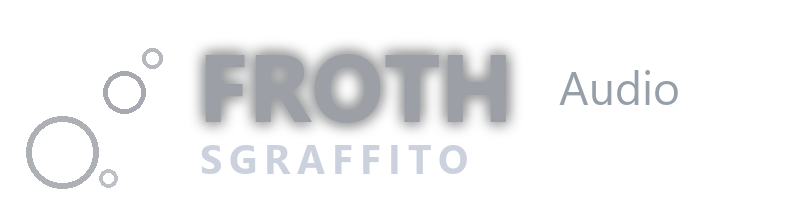
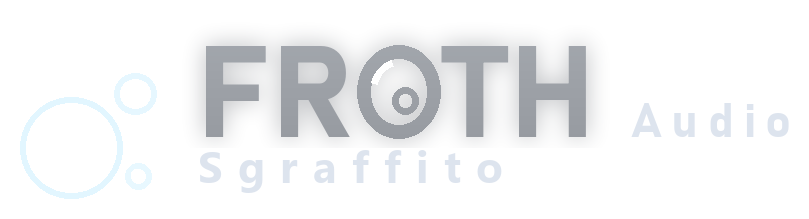
feat(Sgraffito): Update UI and documentation for Sgraffito Memory Sampler, including new button placement and branding adjustments

Changed region(s): [[0.2472, 0.1918, 0.9889, 0.8767], [0.0, 0.3288, 0.2163, 0.9041], [0.1545, 0.2192, 0.2163, 0.3288]]

diff --git a/plugins/Sgraffito/Source/PluginEditor.cpp b/plugins/Sgraffito/Source/PluginEditor.cpp
@@ -6,6 +6,9 @@
 
 namespace
 {
+    // LOAD SOUND's width inside the waveform preview (owner request 2026-11-16).
+    constexpr int loadButtonWidth = 130;
+
     constexpr int editorWidth = 880;
     constexpr int editorHeight = 700;
     constexpr int headerHeight = 44;
@@ -49,9 +52,11 @@ SgraffitoEditor::SgraffitoEditor (SgraffitoProcessor& p)
     presetBar->onPresetLoaded = [this] { repaint(); };
     addAndMakeVisible (*presetBar);
     
-    // Sample loading button: next to the preset bar.
+    // Sample loading button: inside the waveform preview on the SOUND page (owner
+    // request 2026-11-16) — the sample's home is the preview, not the header. It is a
+    // child of the waveform view, so it follows the page's visibility.
     loadSampleButton.onClick = [this] { browseForSample(); };
-    addAndMakeVisible (loadSampleButton);
+    waveformView.addAndMakeVisible (loadSampleButton);
 
     addAndMakeVisible (headerMenu);
     headerMenu.onAbout = [this]
@@ -337,9 +342,8 @@ void SgraffitoEditor::setPage (int newPage)
                               static_cast<juce::Component*> (&levelSlider),
                               static_cast<juce::Component*> (&velocityCurveSlider),
                               static_cast<juce::Component*> (&attackSlider),
-                              static_cast<juce::Component*> (&releaseSlider),
-                              static_cast<juce::Component*> (&loadSampleButton) })
-        component->setVisible (soundPage);
+                              static_cast<juce::Component*> (&releaseSlider) })
+        component->setVisible (soundPage);   // loadSampleButton follows its parent, the waveformView
 
     for (auto* component : { static_cast<juce::Component*> (&tapeStopTimeSlider),
                               static_cast<juce::Component*> (&tapeStopCurveSelector),
@@ -423,13 +427,6 @@ void SgraffitoEditor::resized()
                                 .withHeight (presetBar->getPreferredHeight())
                                 .withY (headerArea.getCentreY() - presetBar->getPreferredHeight() / 2));
 
-    // Load sample button next to the preset bar. A floor of one pill height keeps it visible
-    // in the default build, where the preset-bar stub reports height 0.
-    loadSampleButton.setBounds (headerArea.removeFromRight (150)
-                                    .withHeight (juce::jmax (presetBar->getPreferredHeight(), SuiteUI::pillHeight))
-                                    .withY (headerArea.getCentreY()
-                                              - juce::jmax (presetBar->getPreferredHeight(), SuiteUI::pillHeight) / 2));
-
     pageSelector.setBounds (headerArea.removeFromRight (pageSelectorWidth)
                                 .withSizeKeepingCentre (pageSelectorWidth, pageSelectorHeight));
 
@@ -455,6 +452,14 @@ void SgraffitoEditor::layoutSoundPage (juce::Rectangle<int> area)
     // The waveform takes the space the fixed rows below leave, so the page has no dead area.
     const int fixedBelow = 2 * SuiteUI::knobRowHeight + SuiteUI::pillHeight + 4 * groupGap;
     waveformView.setBounds (area.removeFromTop (juce::jmax (100, juce::jmin (260, area.getHeight() - fixedBelow))));
+
+    // LOAD SOUND sits inside the preview, at its top-right: the sample's home is the
+    // waveform, and the missing-sample overlay below it opens the same browse flow.
+    // A pill-height button, centred in its corner strip (rule R3: never fill a row).
+    loadSampleButton.setBounds (waveformView.getBounds()
+                                    .removeFromTop (SuiteUI::pillHeight + 10)
+                                    .removeFromRight (loadButtonWidth + 10)
+                                    .withSizeKeepingCentre (loadButtonWidth, SuiteUI::pillHeight));
 
     area.removeFromTop (groupGap);
 

diff --git a/AGENTS.md b/AGENTS.md
@@ -8,9 +8,21 @@ The original brief (`coding_agent_prompt.md`) is no longer in the repository. Se
 
 ---
 
+## 0. Framework readiness summary
+
+The suite framework is ready for new plugin development:
+
+- **R1 State versioning**: Done via `modules/suite_state`. Sessions carry a `suiteStateVersion` attribute; older states load unchanged, newer states are refused.
+- **R2 Build recipe**: Done via `suite_add_plugin()` in `modules/suite_plugin/SuitePlugin.cmake` and the generator `tools/new_plugin/new_plugin.py`. New plugins are created with one CMake function call.
+- **R3 Editor UI base**: Done. MicroTimingChaos's LookAndFeel now derives from `SuiteUI::SuiteLookAndFeel`, sharing fonts, layout setup, and common widget drawing. The refresh rate is a single constant `SuiteUI::kRefreshHz = 60`. One minor decision remains: the MicroTimingChaos PREVIEW tab first-render effect (owner-decided baseline in plan 02).
+
+New plugins cost about one day of processor/editor scaffolding work, plus DSP and tests. The shared modules (`core_dsp`, `suite_modulation`, `suite_ui`) are independent and have no plugin-specific code.
+
+---
+
 ## 1. What this project is
 
-Three audio plugins written with JUCE 9.0.5 in C++17. Formats: VST3 on Windows and macOS, Audio Unit on macOS, and Standalone on both.
+Four audio plugins written with JUCE 9.0.5 in C++17. Formats: VST3 on Windows and macOS, Audio Unit on macOS, and Standalone on both.
 
 | Plugin | Folder | Kind | DSP core | Editor accent |
 |---|---|---|---|---|
@@ -64,7 +76,7 @@ modules/
     include/SuiteLookAndFeel.h    SuiteUI::Colours: the neutral palette shared by all plugins, SuiteLookAndFeel (LookAndFeel_V4), and kRefreshHz (the 60 Hz editor timer rate)
     include/SuiteWidgets.h        SpectrumDisplay, TrailPlot, CurveView, LevelMeter, SegmentedSelector, LabelledSlider
     include/SuiteBrand.h          drawBrandLockup(): draws a brand lockup image at the left of a header area
-    brand/                        Generated artwork: brand_mark.png and lockup_<plugin>.png. Made by tools/brand/build.py, do not edit by hand
+    brand/                        Generated artwork: brand_mark.png and lockup_<plugin>.png. The lockups are made by the template generator tools/brand/lockups.py (one table row per plugin); do not edit the PNGs by hand
     Source/*.cpp                  Implementations
     SuiteUI.cmake                 suite_ui_add_to_target(<target>): adds sources + include dir
     tests/SuiteUITests.cpp        SuiteUITests (9 test functions)
@@ -83,7 +95,7 @@ plugins/<Name>/
   Source/PluginEditor.{h,cpp}     Editor, 60 Hz Timer reads processor snapshots
   tests/PluginTests.cpp           Plugin tests: SpectralDrift 22, DynamicSaturation 19, MicroTimingChaos 40
 plugins/MicroTimingChaos/         Additional files:
-  MicroTimingChaosLookAndFeel.h   At the plugin root (not include/). MTC-only colours (axes, LFOs, preview text); the neutrals come from SuiteUI::Colours. Derives from SuiteUI::SuiteLookAndFeel for the shared setup. It keeps its own knob, toggle, combo box, linear slider and fonts, so the window is unchanged (plan 02 results)
+  MicroTimingChaosLookAndFeel.h   At the plugin root (not include/). MTC-only colours (axes, LFOs, preview text); the neutrals come from SuiteUI::Colours. Derives from SuiteUI::SuiteLookAndFeel for shared fonts and layout setup. It keeps its own knob, toggle, combo box, linear slider and fonts, so the window is unchanged (plan 02 results).
   Source/MicroTimingChaosLookAndFeel.cpp  Rotary knobs, BPM Sync button, combo box; textures and icons from BinaryData
   Source/LerpCurveEditor.{h,cpp}  The 5-point curve editor (Curve tab)
   Source/LerpPreview.{h,cpp}      The live drift preview (Preview tab)
@@ -451,6 +463,8 @@ Reason: a static library that links JUCE module targets bundles those module obj
 
 If you add a new consumer, use `suite_ui_add_to_target`. Do not add `SuiteUI` to `target_link_libraries`.
 
+**R3 completion**: The editor UI base is fully implemented. All four plugins share the suite look and feel through `SuiteUI::SuiteLookAndFeel`. MicroTimingChaos's own LookAndFeel derives from it, keeping only MTC-specific drawings (knobs, toggles, combo box). The shared refresh rate constant `SuiteUI::kRefreshHz = 60` is used by all editors. One minor owner-decided baseline remains for MicroTimingChaos's PREVIEW tab first-render effect (see plan 02).
+
 `suite_modulation` follows the same rule (`suite_modulation_add_to_target`, never `target_link_libraries`). Its panel uses `SuiteUI::LabelledSlider`, so a consumer calls `suite_ui_add_to_target` on the same target first. Its tests are registered in `modules/suite_modulation/CMakeLists.txt` only when `SUITE_BUILD_TESTS` is on, and the directory is added only inside the `SUITE_BUILD_PLUGINS` block.
 
 `suite_settings` follows the same pattern (`suite_settings_add_to_target`, never `target_link_libraries`). The Settings dialog uses `SuiteUI::LabelledSlider` for the preset folder browse button, so a consumer must call `suite_ui_add_to_target()` first, then `suite_settings_add_to_target()`. Its tests are registered in `modules/suite_settings/CMakeLists.txt` and only built when plugins are enabled.
@@ -497,7 +511,7 @@ If you add a new consumer, use `suite_ui_add_to_target`. Do not add `SuiteUI` to
 1. Run `python tools/new_plugin/new_plugin.py <Name> "<Product name>" <Code>`. It copies `tools/new_plugin/skeleton/` into `plugins/<Name>/`, fills in the names, and refuses if the folder exists or the plugin code is in use. It writes nothing else.
 2. Add `add_subdirectory(plugins/<Name>)` to the root `CMakeLists.txt`, after the other plugins. The script prints this line.
 3. The plugin's CMake is one `suite_add_plugin(...)` call (`modules/suite_plugin/SuitePlugin.cmake`). It sets the plugin target, its `<Name>Tests` executable, the links, the lockup and `add_test`. Its arguments are described at the top of that file. `DESCRIPTION` sets the bundle description (default: the product name). The company website and copyright are set once, in the root `CMakeLists.txt`. Add `MODULATION` for the LFOs and routing, `IS_SYNTH` / `IS_MIDI_EFFECT` / `NEEDS_MIDI_INPUT` / `NEEDS_MIDI_OUTPUT` for MIDI effects and instruments, and `LOCKUP` or `ASSETS` for embedded images and files.
-4. Add `suite_add_host_test(<Name>)` to `tests/host/CMakeLists.txt`. Add its accent colour and lockup to `tools/brand/build.py` and regenerate the artwork. Add it to the README and the CHANGELOG.
+4. Add `suite_add_host_test(<Name>)` to `tests/host/CMakeLists.txt`. Add one row to the lockup table in `tools/brand/lockups.py` (file name, product name, accent) and run it to generate the lockup. Add it to the README and the CHANGELOG.
 5. The function checks that the plugin code is four characters and unique across all plugins. A duplicate stops configuration.
 
 **Adding modulation to a plugin** (the procedure used for Spectral Drift and Dynamic Saturation)
@@ -596,12 +610,12 @@ Development of the Sgraffito memory sampler plugin is complete across all phases
 
 - **Phase 4 - Creative Features**: Lorenz chaos drift, tape stop, ghost notes, scale lock, cloud granular mode. 71 parameters total (37 original + 34 new: 2 LFOs + 6 modulation slots + 21 creative parameters).
 - **Phase 5 - Modulation Infrastructure**: SuiteModulation::Router shared with other plugins, 2 LFOs, 6 routing slots (source/target/amount/delay). All parameters automatable, savable, restorable.
-- **Editor**: 880×700 window (plan 05 budget; plan 05.1 added the MOD page and the playable keyboard), SOUND/TEXTURE/MOD pages, brand lockup in the header (`lockup_sgraffito.png`, embedded via LOCKUP; generated by `build/brand/lockup_sgraffito.py` in the style of the other lockups) and the factory preset bar (added to the component tree in every build). Knobs come from the shared `SuiteUI` tokens (40 px, plan 05.1); toggle buttons and selectors are 36 px pills. The SOUND page shows the waveform view (region overlay, Chop slice lines) and a Root Key value box that reads as a note name and number (`C3 (60)`); the TEXTURE page groups the controls into framed rows (TAPE & MEMORY, DRIFT & TIMING, GHOST, CLOUD, SWELL & SURFACE); the MOD page holds only the `ModulationPanel` (both LFOs in the slate accent). The editor has no help/status line. A `PlayableKeyboardStrip` (MIDI 24–96) sits at the very bottom of every page and plays through an SPSC note queue drained in `processBlock`. The waveform's region maths mirrors `CoreDSP::Sampler::keyRegion`/`chopRegion`.
+- **Editor**: 880×700 window (plan 05 budget; plan 05.1 added the MOD page and the playable keyboard), SOUND/TEXTURE/MOD pages, brand lockup in the header (`lockup_sgraffito.png`, embedded via LOCKUP; generated by the lockup template generator `tools/brand/lockups.py` — one table row per plugin, composited from the family template so the wordmark, "Audio" and mark are pixel-identical across the suite; the old one-off `build/brand/lockup_sgraffito.py` is superseded) and the factory preset bar (added to the component tree in every build). Knobs come from the shared `SuiteUI` tokens (40 px, plan 05.1); toggle buttons and selectors are 36 px pills. The SOUND page shows the waveform view (region overlay, Chop slice lines) and a Root Key value box that reads as a note name and number (`C3 (60)`); the TEXTURE page groups the controls into framed rows (TAPE & MEMORY, DRIFT & TIMING, GHOST, CLOUD, SWELL & SURFACE); the MOD page holds only the `ModulationPanel` (both LFOs in the slate accent). The editor has no help/status line. A `PlayableKeyboardStrip` (MIDI 24–96) sits at the very bottom of every page and plays through an SPSC note queue drained in `processBlock`. The waveform's region maths mirrors `CoreDSP::Sampler::keyRegion`/`chopRegion`.
 - **Presets**: Sgraffito ships 20 factory presets (the 15-preset minimum plus five added by plan 05.3 F1.3); the suite-wide bank is 100 factory presets (26 SD / 26 DS / 28 MTC / 20 Sgraffito) behind SUITE_PRESET_BANK flag. CI and the release workflow configure with `-DSUITE_PRESET_BANK=ON`, so published binaries carry the presets.
 - **Documentation**: AGENTS.md updated with Sgraffito plugin entry, parameter tables, and minimum 15 presets requirement.
 - **Test results**: 12 CTest entries with `SUITE_PRESET_BANK=OFF`, 16 with `=ON` (both include `SuiteSettings_Tests` since plan 08). The 4 plugin test executables run in both; the bank build adds 4 preset-test executables. Sgraffito's plugin tests cover 36 functions: parameters, state, note-on/off voice handling, region mapping, Chop slices, output, the editor paint, the preset bar in the component tree, per-page knob visibility (a knob missing from a page's visibility list floats over every page), editor renders (3 pages plus the missing-sample overlay), the shared routing, the plan 05.1 sound regressions (the four modes produce different audio; the key changes the pitch), the plan 07 sample-linked preset/session tests (7 in phase 1, 5 in phase 2, 2 in phase 4: the async latest-wins race and destruction with a load pending), and the plan 09 tests (the capped retirement queue, pending-note stealing per D1, pending Cloud lanes, pending-matches-direct, and the preset-identity session round trip).
 - **Audio playback (per-sample loop)**: `processBlock` reads and writes audio sample by sample. The envelope (`Voice::envelope`) runs per sample; a released voice deactivates when its release envelope reaches zero. Scrub and Chop advance `voice.position` by `rate` frames per output sample and end as one-shots at the region end; Swell starts at the region end and reads backwards; Cloud runs a per-lane grain machine (`cloudGrainPosition`, half-sine window, `grainSize`/`grainDensity`/`grainSpread`, wrap within the region). A mono sample (the embedded `grain_4k.wav` is mono) feeds every output channel — the per-channel read must use `ch % sampleChannels`, or a stereo output crashes on `getReadPointer`. The routing target table has 26 entries; `TimingRange` and `Chaos` (MicroTimingChaos leftovers) are not Sgraffito parameters and were removed before any release. Still not wired to the audio: `ghostOn/threshold/level/delay`, `dust/crackle/wow/flutter`, `swellTime/swellCrossfade` (Swell reverse playback runs, its own parameters do not yet), chaos drift, tape-stop slowdown, `swing` and `humanise` — a follow-up plan owns them.
-- **Sample loading (header LOAD SOUND button)**: the button sits left of the preset bar and opens a `FileChooser` kept alive as an editor member (deleting the chooser aborts the dialog, so a stack-local one never shows it). File patterns are `*.wav;*.aiff;*.aif` only — `registerBasicFormats()` reads no FLAC. The chosen file loads asynchronously (plan 07 phase 4): the read runs on a pooled thread and the install happens on the message thread, so the UI never stalls on a big file; the current sample keeps playing until then. On a new load the previous `LoadedSample` moves into `retiredSamples`, a **capped two-generation retirement queue** (plan 09 1.1), instead of being destroyed: an audio block that started before the load may still hold the old buffer pointer, and two installs inside one running block (rapid preset/sample switching) would have freed it under the old single `retiredSample` slot. Both retire sites (`finishSampleLoad`, `clearSample`) route through `retireCurrentSample()`; the queue grows only on the message thread, and the audio thread never touches it.
+- **Sample loading (LOAD SOUND button in the waveform preview)**: the button sits at the top-right *inside* the waveform view on the SOUND page (owner request 2026-11-16; it used to sit in the header left of the preset bar) and opens a `FileChooser` kept alive as an editor member (deleting the chooser aborts the dialog, so a stack-local one never shows it). It is a child of the waveform view, so it follows the page's visibility, and it stays clickable above the missing-sample overlay. File patterns are `*.wav;*.aiff;*.aif` only — `registerBasicFormats()` reads no FLAC. The chosen file loads asynchronously (plan 07 phase 4): the read runs on a pooled thread and the install happens on the message thread, so the UI never stalls on a big file; the current sample keeps playing until then. On a new load the previous `LoadedSample` moves into `retiredSamples`, a **capped two-generation retirement queue** (plan 09 1.1), instead of being destroyed: an audio block that started before the load may still hold the old buffer pointer, and two installs inside one running block (rapid preset/sample switching) would have freed it under the old single `retiredSample` slot. Both retire sites (`finishSampleLoad`, `clearSample`) route through `retireCurrentSample()`; the queue grows only on the message thread, and the audio thread never touches it.
 - **Sample-linked presets and sessions (plan 07 phases 1-4)**: the loaded sample travels as the `samplePath` property on `<PARAMETERS>` (constants `samplePathProperty`, `embeddedSampleUri`), never as an APVTS parameter. `loadSample`/`loadEmbeddedSample` keep the property in sync on `apvts.state` at change time (the lerpCurve pattern), so the bar's SAVE path and `SuiteState::write`'s `extra` callback pick it up. `applySampleFromState` implements the rule: an **empty** tree is INIT (the bar and host program 0 apply hand-made empty trees) → reset to `embedded:grain_4k.wav`; an `embedded:` URI → `loadEmbeddedSample`; an existing file → `loadSample`; a missing path → the same file name in the fallback folder (`userSampleFolder()` = `userDocuments/AudioSuite/Sgraffito/Samples`, Q5; tests override it through the public `sampleSearchFolder` member), and if that fails too, keep the current sample and set `sampleMissing` + `missingSamplePath`; no property → no-op (delta semantics). The fallback load updates the saved path, so the session remembers the resolution; there is no automatic `embedded:` substitution. The waveform view draws a "Sample missing - click to locate" overlay (accent border + text, rule R6) over the still playing sample; clicking it runs the editor's `browseForSample()` flow. `applyPresetState`'s `afterLoad` reads the **incoming tree**, because an empty INIT tree gains a version property during read. No parameter or `numControls` change, no state-version bump; a preset change to the sample marks the session dirty (intended). Factory presets may now carry an `embedded:` URI only — never a file path (Q3, revised in phase 4; the audit rule rejects file paths in the authoring data, XML and JSON). Five Sgraffito factory presets (Glass Dust, Deep Cloud, Cloud Rain, Cloud Dust, Swelling Cloud) ship the embedded cloud variant (`embedded:cloud_4k.wav`); `build_bank.py` writes the `<PARAMETERS>` attribute and the `_samplePath` JSON key, and `SgraffitoPresetTests`'s `embeddedSamples` check applies every URI in the bank and asserts it actually loads (the guard against a resource-name typo, since `loadEmbeddedSample` silently keeps the current sample on an unknown name). Plan 07 phase 3 also added the host program virtuals Sgraffito was missing (the flag build's `runProgramList` exposed the gap): `getNumPrograms`/`getCurrentProgram`/`setCurrentProgram`/`getProgramName`/`getCurrentProgramStateInformation`/`setCurrentProgramStateInformation` are now out-of-line in `PluginProcessor.cpp` under `#if SUITE_PRESET_BANK_AS_PROGRAMS`, mirroring SpectralDrift, with a guarded `#include "PresetBank.h"` and the `currentProgramIndex` member reset to −1 in `applyPresetState` (on `LoadResult::loaded`) and in `setCurrentProgramStateInformation`. Phase 4 made **file** sample loads asynchronous: `loadSampleAsync` runs the read + resample on a `ThreadPool` member (`sampleLoadPool`, declared last so it is destroyed first and waits) and installs on the message thread via `finishSampleLoad` — the one install path (retire pattern, atomic swap, property sync), shared with the sync loaders. A `loadGeneration` counter makes the latest request win (every request bumps it, out-of-order installs are discarded), and a `LoadLifetime` token (shared_ptr + atomic alive flag, set dead first thing in the destructor) makes a queued handoff lambda a no-op after destruction. `hasPendingSampleLoad()` reports outstanding handoffs; tests pump the message loop until it clears. The existence/fallback/missing resolution stays synchronous, so a missing sample is still reported immediately; embedded URIs and INIT stay synchronous. `SgraffitoTests.exe <dir>` records a state fixture (`sgraffito_v1.xml` + `.values.txt`) for a future version bump; one exists under `build/fixtures/plan07/`.
 - **Voice release and Sustain Hold routing**: a released voice now deactivates when its release envelope reaches zero (`sampleIndex >= envEnd + releaseSamples`), instead of staying active and holding its pool slot until the region end (many seconds with the default 25 % region). Tape-stop voices have no envelope end and keep their own completion path. `SustainHold` is now in `modulationTargets[]` (after `Humanise`, so table position matches enum value 15; `wholeNumber` on, because it is a switch). Every target from Ghost Threshold onward previously indexed the wrong row, so those routings moved the wrong parameter. No migration: there is no public release. `SgraffitoTests` grew to cover both.
 

diff --git a/CHANGELOG.md b/CHANGELOG.md
@@ -15,6 +15,8 @@ All notable changes to this project are documented here. The format follows
 - Factory preset coverage (plan 05.3 F1.3, resolved 2026-11-12): preset coverage findings are now recorded owner decisions — output levels/gains are never authored by factory presets, and the structural LFO/routing slots stay at their defaults. Sgraffito gained five new factory presets (Velvet Swing, Ghostly Echo, Held Breath, Fine Grained Drift, Slow Attack Tape) that use the attack and release envelopes and showcase the performance controls (swing, ghost notes, sustain hold, pitch/velocity shaping, tape stop); the suite-wide bank is now 100 presets.
 
 ### Changed
+- Sgraffito: the LOAD SOUND button moved from the header into the sample preview — it now sits at the top-right corner of the waveform view on the SOUND page (it used to sit in the header left of the preset bar). It follows the page's visibility with its parent and stays clickable above the missing-sample overlay, which opens the same browse flow.
+- Sgraffito: the header lockup matches the other three plugins again. Its one-off artwork had a grey "Audio" that sat too high and a tight wordmark; it is now generated from the same template as the family — "Audio" in the family light colour, baseline-aligned at the wordmark's right, and the letterspaced FROTH wordmark pixel-identical to the other plugins. New lockup template generator `tools/brand/lockups.py`: one table row per plugin (file, product name, accent), composited from the family template artwork so the wordmark, "Audio" and mark are pixel-identical across the suite; adding a plugin is one row. The shipped family lockups are byte-identical outside the name band (verified 0% diff), and were left as shipped — regenerating them would replace the product-name raster (the original rasterizer is gone). The superseded one-off `build/brand/lockup_sgraffito.py` still sits in `build/` for reference.
 - Sgraffito: sample retirement is a capped two-generation queue instead of a single slot (plan 09 1.1). Two sample installs while one audio block is still running — rapid preset or sample switching — no longer free the buffer that block is reading (the single retire slot destroyed it on the second install). The queue lives on the message thread only; the audio thread never touches it.
 - Sgraffito: the three note-on paths (direct, ghost, delayed/pending) allocate voices through `VoicePool::allocateVoice` and one shared setup helper (plan 09 1.3, owner decision D1). Delayed notes now steal a voice when all 32 are busy — tape-stopping first, then oldest release, then oldest active — instead of being silently dropped, and a delayed Cloud note now gets its four grain lanes (it used to allocate one voice). Ghost copies are transposed like the note they copy (they used to ignore the key and PITCH FINE). The region maths is no longer hand-copied: all paths use the pool's `makeRegion`. Notes with no delay (the direct path) are bit-identical to before. The Cloud grain guards in `processBlock` are named constants.
 - Sgraffito: the async sample loader stamps its job with the generation the request itself created (one atomic operation instead of two, plan 09 1.2 — hardening; the latest-wins behaviour is unchanged).
@@ -33,7 +35,7 @@ All notable changes to this project are documented here. The format follows
 - Preset audit quick wins (plan 05.2): the authoring schema now covers the new Dynamic Saturation Panning parameter, and `tools/audit_bank.py` verifies that the schema covers every parameter the plugins expose (live IDs parsed from the sources, the shared Router's parameters included) — the audit fails when a parameter drifts out of the authoring data. The factory-bank README describes the flag-gated 95-preset bank instead of the old INIT-only narrative, and the AGENTS test/preset counts were synced (11 entries default build, 15 with the bank on).
 - Sgraffito: the editor is laid out again. The window is 880×640 (was 720×1200 with clipped rows), the Scale Lock, Ghost On and Sustain Hold switches and the scale and tape-stop-curve selectors are 36 px pills instead of row-filling ellipses, and both pages arrange their controls in a five-column grid. The FROTH Audio brand lockup (slate accent) now sits in the header, embedded like the other plugins'. A `testRenderBaseline` writes editor renders when `SUITE_RENDER_DIR` is set.
 - Plugin metadata: each VST3 and AU bundle now has a description, the company website (the repository) and a copyright line (GPL v3). The Windows version resource shows the copyright. No e-mail is set. The manufacturer name hosts show is now FROTH Audio (was AudioSuite). The bundle IDs and plugin codes are unchanged, so sessions still load. Hosts may show the new name and description after a rescan.
-- Micro-Timing Chaos: its look and feel now derives from the suite's shared look and feel for the shared setup. The window is unchanged. Editor timers use one refresh constant, 60 Hz. No visible change.
+- Micro-Timing Chaos: its look and feel now derives from `SuiteUI::SuiteLookAndFeel` for shared fonts and layout setup, keeping only MTC-specific drawings (knobs, toggles, combo box). The refresh rate uses the suite constant `SuiteUI::kRefreshHz = 60`. No visible change to any editor.
 - Build: the deprecated juce::Font constructors are replaced by the juce::FontOptions form. The Release build has no deprecation warnings. No visible change.
 - Build: each plugin's CMake file is now one `suite_add_plugin(...)` call, and the plugin codes are checked for uniqueness at configure time. No user-visible change.
 - Build: each plugin's version is passed explicitly from the project version. It is 1.0.0, the same version the hosts already see, so no DAW rescan is needed.

diff --git a/README.md b/README.md
@@ -1,9 +1,9 @@
 <p align="center">
-  <img src="docs/images/froth-audio-suite.png" alt="FROTH Audio: Spectral Drift Shifter, Dynamic Saturation Companion and Micro-Timing Chaos" width="100%">
+  <img src="docs/images/froth-audio-suite.png" alt="FROTH Audio: Spectral Drift Shifter, Dynamic Saturation Companion, Micro-Timing Chaos and Sgraffito" width="100%">
 </p>
 
 <p align="center">
-  <b>Three plugins that bend phase, drive and groove.</b><br>
+  <b>Four plugins that bend phase, drive and groove.</b><br>
   VST3, Audio Unit and Standalone. Each plugin has its own accent colour and a live visualiser.
 </p>
 
@@ -22,28 +22,28 @@
 
 FROTH Audio makes plugins that work on sound at the level of its structure: the phase of each frequency, the shape of each peak, and the timing of each note.
 <table align="center">
+<tr style="border-bottom: 2px solid #333;">
+<th colspan="3" style="padding: 15px; font-size: 1.2em; color: #666;">The Plugins</th>
+</tr>
 <tr>
-<td align="center" valign="top" width="33%">
-  <img src="modules/suite_ui/brand/lockup_spectral_drift.png" width="250" alt="FROTH Audio Spectral Drift"><br><br>
-  <b>Spectral Drift Shifter</b><br>
-  <sub>Audio effect</code></sub><br><br>
-  <i>Phase, bent into motion.</i><br>
-  FFT drift of every frequency bin, with shift, tilt, gate and feedback.
-</td>
-<td align="center" valign="top" width="33%">
-  <img src="modules/suite_ui/brand/lockup_dynamic_saturation.png" width="250" alt="FROTH Audio Dynamic Saturation"><br><br>
-  <b>Dynamic Saturation Companion</b><br>
-  <sub>Audio effect</code></sub><br><br>
-  <i>Drive that listens.</i><br>
-  Tube, Tape and Diode shaping at 2× oversampling, driven by the envelope.
-</td>
-<td align="center" valign="top" width="33%">
-  <img src="modules/suite_ui/brand/lockup_micro_timing_chaos.png" width="250" alt="FROTH Audio Micro-Timing Chaos"><br><br>
-  <b>Micro-Timing Chaos</b><br>
-  <sub>MIDI sequencer</code></sub><br><br>
-  <i>A groove that never plays the same way twice.</i><br>
-  A fixed pattern, moved in time, pitch and velocity by a Lorenz attractor.
-</td>
+<td align="center"><img src="modules/suite_ui/brand/lockup_spectral_drift.png" width="200" alt="FROTH Audio Spectral Drift"></td>
+<td><b>Spectral Drift Shifter</b><br><sub>Audio effect</sub></td>
+<td>Phase, bent into motion.<br>FFT drift of every frequency bin, with shift, tilt, gate and feedback.</td>
+</tr>
+<tr>
+<td align="center"><img src="modules/suite_ui/brand/lockup_dynamic_saturation.png" width="200" alt="FROTH Audio Dynamic Saturation"></td>
+<td><b>Dynamic Saturation Companion</b><br><sub>Audio effect</sub></td>
+<td>Drive that listens.<br>Tube, Tape and Diode shaping at 2× oversampling, driven by the envelope.</td>
+</tr>
+<tr>
+<td align="center"><img src="modules/suite_ui/brand/lockup_micro_timing_chaos.png" width="200" alt="FROTH Audio Micro-Timing Chaos"></td>
+<td><b>Micro-Timing Chaos</b><br><sub>MIDI sequencer</sub></td>
+<td>A groove that never plays the same way twice.<br>A fixed pattern, moved in time, pitch and velocity by a Lorenz attractor.</td>
+</tr>
+<tr>
+<td align="center"><img src="modules/suite_ui/brand/lockup_sgraffito.png" width="200" alt="FROTH Audio Sgraffito"></td>
+<td><b>Sgraffito Memory Sampler</b><br><sub>Memory sampler</sub></td>
+<td>Traces in memory, frozen in time.<br>Memory traces, tape stop, ghost notes, scale lock and a granular cloud.</td>
 </tr>
 </table>
 
@@ -58,6 +58,7 @@ FROTH Audio makes plugins that work on sound at the level of its structure: the 
   - [Spectral Drift Shifter](#spectral-drift-shifter)
   - [Dynamic Saturation Companion](#dynamic-saturation-companion)
   - [Micro-Timing Chaos](#micro-timing-chaos)
+  - [Sgraffito Memory Sampler](#sgraffito-memory-sampler)
   - [Latency](#latency)
 - [For developers](#for-developers)
   - [Requirements](#requirements)

diff --git a/docs/brand.md b/docs/brand.md
@@ -2,7 +2,7 @@
 
 The brand for the plugin suite. "FROTH" is not a registered trademark for audio software as far as the search done when choosing it went, but run a proper clearance search (USPTO, and EUIPO if you sell in Europe) before publishing. The word "Pulsar" was dropped because it is a registered trademark.
 
-Change `BRAND_WORD` and `BRAND_SUFFIX` in `tools/brand/make_brand.py` to rename it, then regenerate the artwork.
+The generator is `tools/brand/build.py`. Check that script for how the name is set. The `BRAND_WORD` and `BRAND_SUFFIX` constants named in earlier versions of this file are not in it. Regenerate the artwork after any change.
 
 ## Parts
 
@@ -12,6 +12,7 @@ Change `BRAND_WORD` and `BRAND_SUFFIX` in `tools/brand/make_brand.py` to rename 
   - `lockup_spectral_drift.png`, cyan `#2DE2FF`
   - `lockup_dynamic_saturation.png`, amber `#FF9F1C`
   - `lockup_micro_timing_chaos.png`, lime `#7DFF5A`
+  - `lockup_sgraffito.png`, slate `#9aa0a6`
 
 ## Typeface
 
@@ -28,7 +29,7 @@ Bahnschrift Bold, the Windows system font, is used to draw the artwork. The artw
 From the repository root:
 
 ```
-python -I tools/brand/make_brand.py
+python -I tools/brand/build.py
 ```
 
 Then rebuild. The script needs Pillow. It writes the mark and the lockups into `modules/suite_ui/brand/`, and the README banner into `docs/images/froth-audio-suite.png`. Do not edit the PNGs by hand.
@@ -42,6 +43,7 @@ FROTH Audio is one plugin suite with one product per accent colour. Each product
 | Spectral Drift Shifter | Cyan | `#2DE2FF` | `Sdft` |
 | Dynamic Saturation Companion | Amber | `#FF9F1C` | `Dsat` |
 | Micro-Timing Chaos | Lime | `#7DFF5A` | `Mtch` |
+| Sgraffito Memory Sampler | Slate | `#9aa0a6` | `Sgrf` |
 
 The plugin codes are saved in sessions and must not change after release. A new product needs a new accent colour, a lockup entry in `PLUGINS` in the script, and a row in this table and in the README's product line.
 
@@ -52,4 +54,4 @@ The banner is the wordmark with a cyan-to-lime sweep and a glow, the three produ
 ## Known limits
 
 - The lockups are bitmaps, so they do not scale past their rendered size. For a larger display, render at a higher `SCALE` in the script.
-- Title rows are 40 px in SpectralDrift and DynamicSaturation, and 60 px in Micro-Timing Chaos. The lockup is drawn to fit the row's height.
+- Title rows are 40 px in SpectralDrift and DynamicSaturation, 60 px in Micro-Timing Chaos and Sgraffito. The lockup is drawn to fit the row's height.
